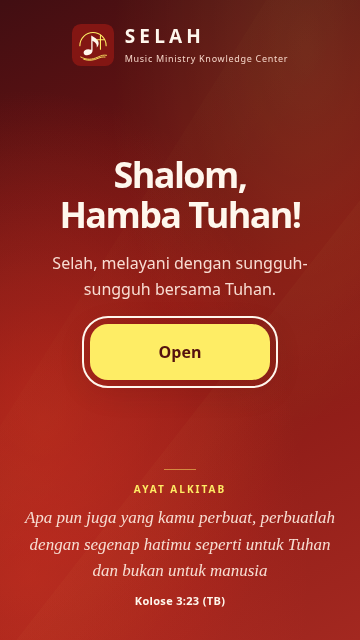
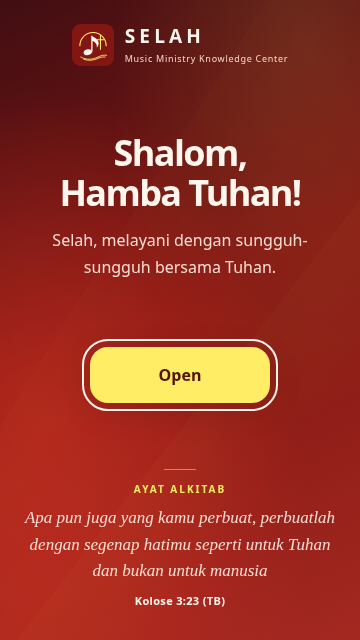
Balance welcome action between subtitle and scripture

Changed region(s): [[0.1528, 0.2188, 0.8556, 0.6562]]

diff --git a/index.html b/index.html
@@ -2,7 +2,8 @@
 <html lang="id"><head><meta charset="utf-8"/><meta content="width=device-width,initial-scale=1,viewport-fit=cover" name="viewport"/><meta content="#831613" name="theme-color"/><title>SELAH — Music Ministry v0.3.2</title><link rel="stylesheet" href="./assets/app.css"/><link rel="icon" href="./assets/logo.svg" type="image/svg+xml"/><link rel="manifest" href="./manifest.webmanifest"/><link rel="apple-touch-icon" href="./assets/icon-192.png"/><meta name="apple-mobile-web-app-capable" content="yes"/><meta name="description" content="SELAH — pusat pembelajaran dan persiapan pelayanan musik gereja."/></head><body><section id="welcome" class="welcome" aria-labelledby="welcomeTitle">
 <div class="welcome-inner">
   <div class="welcome-identity"><img class="welcome-logo" src="./assets/logo.svg" alt=""/><div><div class="welcome-brand">SELAH</div><div class="welcome-sub">Music Ministry Knowledge Center</div></div></div>
-  <div class="welcome-message"><h1 id="welcomeTitle">Shalom,<br/>Hamba Tuhan!</h1><p class="intro">Selah, melayani dengan sungguh-sungguh bersama Tuhan.</p><button id="enterApp" class="enter" type="button">Open</button></div>
+  <div class="welcome-message"><h1 id="welcomeTitle">Shalom,<br/>Hamba Tuhan!</h1><p class="intro">Selah, melayani dengan sungguh-sungguh bersama Tuhan.</p></div>
+  <button id="enterApp" class="enter" type="button">Open</button>
   <div class="scripture"><h2>Ayat Alkitab</h2><blockquote>Apa pun juga yang kamu perbuat, perbuatlah dengan segenap hatimu seperti untuk Tuhan dan bukan untuk manusia</blockquote><cite>Kolose 3:23 (TB)</cite></div>
 </div></section><div id="appShell" inert><header class="top"><div class="shell"><div class="topline"><div class="brand"><span aria-hidden="true" class="mark"><img src="./assets/logo.svg" alt=""/></span><div><span class="wordmark">SELAH</span><small>Music Ministry · Heart / Skill / Unity</small></div></div><span class="version">v0.3.2 · PWA</span></div><nav aria-label="Navigasi" class="nav"><button data-page="home">Beranda</button><button data-page="library">Pustaka Lagu</button><button data-page="setlist">Rencana Ibadah</button><button data-page="academy">Akademi</button><button data-page="faith">Fondasi Rohani</button><button data-page="operations">Operasional</button><button data-page="reflection">Refleksi</button><button data-page="service">Struktur Ibadah</button><button data-page="arrange">Aransemen</button><button data-page="manage">Manajemen Lagu</button></nav></div></header><main><div class="shell">
 <section class="page active" id="home"><div class="hero"><div class="heroMain"><p class="eyebrow">SELAH / Pusat pembelajaran &amp; persiapan pelayanan</p><h1>Melayani dengan hati.<br/><em>Bertumbuh bersama.</em></h1><p class="sub">Satu ruang bagi Worship Leader, singer, pemusik, audio dan multimedia untuk bertumbuh dalam iman, keterampilan dan kesatuan — demi ibadah yang berpusat pada Tuhan.</p><div class="actions"><button class="btn primary" data-go="library">Jelajahi pustaka lagu →</button><button class="btn" data-go="setlist">Siapkan ibadah</button></div></div><div class="heroQuote"><div class="eyebrow">Renungan pelayanan</div><blockquote>Untuk siapa kita melayani?</blockquote><p>Ketika persiapan, suara dan perhatian kita dipersembahkan kepada Tuhan, tidak ada peran yang terlalu kecil.</p><small>Kolose 3:23–24 · Refleksi tema</small><button class="btn heroBtn" data-go="faith">Baca fondasi rohani →</button></div></div><div class="grid metrics"><div class="tile"><span class="num" id="homeCount">38</span><h3>Lagu dalam pustaka</h3><p>Repertoar Indonesia</p></div><div class="tile"><span class="num">6</span><h3>Segmen formal ibadah</h3><p>Sesuai alur gereja</p></div><div class="tile"><span class="num">4</span><h3>Jalur pembelajaran peran</h3><p>WL · Singer · Musik · Audio/Media</p></div></div><div class="sectionhead"><p class="eyebrow">01 / Ruang pelayanan</p><h2>Temukan ruangmu</h2></div><div class="grid modulegrid"><button class="module panel" data-go="faith"><span class="moduleNum">01</span><h3>Fondasi Rohani</h3><p>Filosofi, Alkitab dan renungan pelayanan.</p><span class="moduleLink">Buka modul →</span></button><button class="module panel" data-go="library"><span class="moduleNum">02</span><h3>Pustaka Lagu</h3><p>Repertoar publik, lirik dan profil aransemen.</p><span class="moduleLink">Buka modul →</span></button><button class="module panel" data-go="setlist"><span class="moduleNum">03</span><h3>Rencana Ibadah</h3><p>Susun setlist dan briefing enam lagu.</p><span class="moduleLink">Buka modul →</span></button><button class="module panel" data-go="academy"><span class="moduleNum">04</span><h3>Akademi Pelayanan</h3><p>Belajar sesuai peran dan bersama sebagai tim.</p><span class="moduleLink">Buka modul →</span></button><button class="module panel" data-go="operations"><span class="moduleNum">05</span><h3>Operasional</h3><p>Alur kerja, tanggung jawab dan kesiapan tim.</p><span class="moduleLink">Buka modul →</span></button><button class="module panel" data-go="reflection"><span class="moduleNum">06</span><h3>Refleksi &amp; Pertumbuhan</h3><p>Catat pembelajaran dan tindak lanjut pelayanan.</p><span class="moduleLink">Buka modul →</span></button></div><div class="sectionhead"><p class="eyebrow">02 / Service flow</p><h2>Alur ibadah kita</h2><p>Enam segmen formal, tanpa menetapkan durasi atau membatasi doa spontan.</p></div><div class="flow" id="homeFlow"></div><div class="actions"><button class="btn" data-go="service">Struktur ibadah</button><button class="btn" data-go="arrange">Panduan aransemen</button><button class="btn" data-go="manage">Manajemen lagu &amp; cadangan</button></div><div class="sectionhead"><h2>Tiga pilar SELAH</h2></div><div class="grid"><article class="panel"><p class="eyebrow">Heart</p><h3>Hati yang melayani</h3><p>Karakter, kerendahan hati dan kesetiaan. Yohanes 4:23–24.</p></article><article class="panel"><p class="eyebrow">Skill</p><h3>Keterampilan yang bertumbuh</h3><p>Persiapan, latihan dan tanggung jawab. Mazmur 33:3.</p></article><article class="panel"><p class="eyebrow">Unity</p><h3>Kesatuan dalam perbedaan</h3><p>Mendengar dan saling membangun. 1 Korintus 12:12–27.</p></article></div></section>

diff --git a/assets/app.css b/assets/app.css
@@ -15,9 +15,9 @@
 .welcome-logo{width:42px;height:42px;display:block;flex:none}
 .welcome-brand{font-size:19px;line-height:1.2;font-weight:650;letter-spacing:.22em;text-align:left}
 .welcome-sub{font-size:9px;line-height:1.5;letter-spacing:.08em;color:#f5d5c8;margin-top:4px;text-align:left}
-.welcome-message{width:100%;max-width:40rem;padding:12px 0}
+.welcome-message{width:100%;max-width:40rem}
 .welcome h1{font:650 clamp(2.25rem,8.8vw,4.5rem)/1.12 system-ui,-apple-system,BlinkMacSystemFont,'Segoe UI',sans-serif;letter-spacing:-.045em;margin:0;text-wrap:balance}
-.welcome .intro{font-size:1rem;line-height:1.65;color:#f8dcd2;max-width:22rem;margin:20px auto 28px;text-wrap:balance}
+.welcome .intro{font-size:1rem;line-height:1.65;color:#f8dcd2;max-width:22rem;margin:20px auto 0;text-wrap:balance}
 .welcome .enter{position:relative;display:inline-flex;align-items:center;justify-content:center;min-height:56px;width:min(100%,180px);padding:15px 24px;border:1px solid transparent;border-radius:18px;background:var(--baby-yellow);color:#54110f;font-size:1rem;line-height:1.5;font-weight:750;box-shadow:0 8px 32px #29060926;transition:background .2s,transform .2s}
 .welcome .enter:hover{background:#fff28e;transform:translateY(-2px)}
 .welcome .enter:active{transform:translateY(0)}
@@ -28,8 +28,8 @@
 .welcome .scripture blockquote{font:italic 1.0625rem/1.55 Georgia,serif;color:#f7ded3;margin:12px 0}
 .welcome .scripture cite{display:block;font-size:.6875rem;line-height:1.6;font-weight:600;font-style:normal;letter-spacing:.03em;color:#fff7ed}
 @keyframes welcome-light{from{opacity:.55}to{opacity:1}}
-@media(min-width:768px){.welcome{padding:calc(40px + env(safe-area-inset-top,0px)) calc(40px + env(safe-area-inset-right,0px)) calc(40px + env(safe-area-inset-bottom,0px)) calc(40px + env(safe-area-inset-left,0px))}.welcome-inner{min-height:calc(100vh - 80px);min-height:calc(100dvh - 80px - env(safe-area-inset-top,0px) - env(safe-area-inset-bottom,0px))}.welcome-identity{align-self:flex-start}.welcome-message{padding:24px 0}.welcome .intro{font-size:1.125rem;max-width:26rem}}
-@media(max-height:700px){.welcome-inner{gap:20px}.welcome-message{padding:0}.welcome .intro{margin:14px auto 22px}.welcome .scripture::before{margin-bottom:12px}.welcome .scripture blockquote{margin:8px 0}}
+@media(min-width:768px){.welcome{padding:calc(40px + env(safe-area-inset-top,0px)) calc(40px + env(safe-area-inset-right,0px)) calc(40px + env(safe-area-inset-bottom,0px)) calc(40px + env(safe-area-inset-left,0px))}.welcome-inner{min-height:calc(100vh - 80px);min-height:calc(100dvh - 80px - env(safe-area-inset-top,0px) - env(safe-area-inset-bottom,0px))}.welcome-identity{align-self:flex-start}.welcome .intro{font-size:1.125rem;max-width:26rem}}
+@media(max-height:700px){.welcome-inner{gap:20px}.welcome .intro{margin:14px auto 0}.welcome .scripture::before{margin-bottom:12px}.welcome .scripture blockquote{margin:8px 0}}
 @media(prefers-reduced-motion:reduce){.welcome::before{animation:none;opacity:.75}.welcome .enter{transition:none}.welcome .enter:hover{transform:none}}
 @media(display-mode:standalone){.welcome{overscroll-behavior-y:contain}}
 .welcome-actions{display:flex;gap:8px;flex-wrap:wrap}.data-status{font-size:12px;color:var(--muted);margin:8px 0 12px}.data-status strong{color:var(--deep-red)}.local-label{border:1px solid #e8b0a1;color:#831613;background:#fff4eb}.policy{margin-top:14px;max-width:950px}.footer .btn{margin-top:10px}.install-note{font-size:12px;color:var(--muted)}@media print{.welcome{display:none!important}}

diff --git a/CHANGELOG.md b/CHANGELOG.md
@@ -2,7 +2,7 @@
 
 ## 0.3.2 — 2026-11-15
 - Redesigned only the welcome screen with an edge-to-edge Holy Fire background, soft animated light, compact logo, sans-serif hierarchy and Baby Yellow Open button.
-- Made the Open button compact (180px maximum), centered its label and removed the arrow.
+- Made the Open button compact (180px maximum), centered its label, removed the arrow and balanced the space above/below it between the subtitle and scripture.
 - Integrated the owner-supplied Kolose 3:23 text with TB attribution, with no separate scripture card.
 - Added dynamic viewport sizing, safe-area padding, small-screen scrolling and reduced-motion support; all visuals remain available offline.
 - Synchronized app, displayed and service-worker cache versions; song catalog and local-data behavior remain unchanged.
